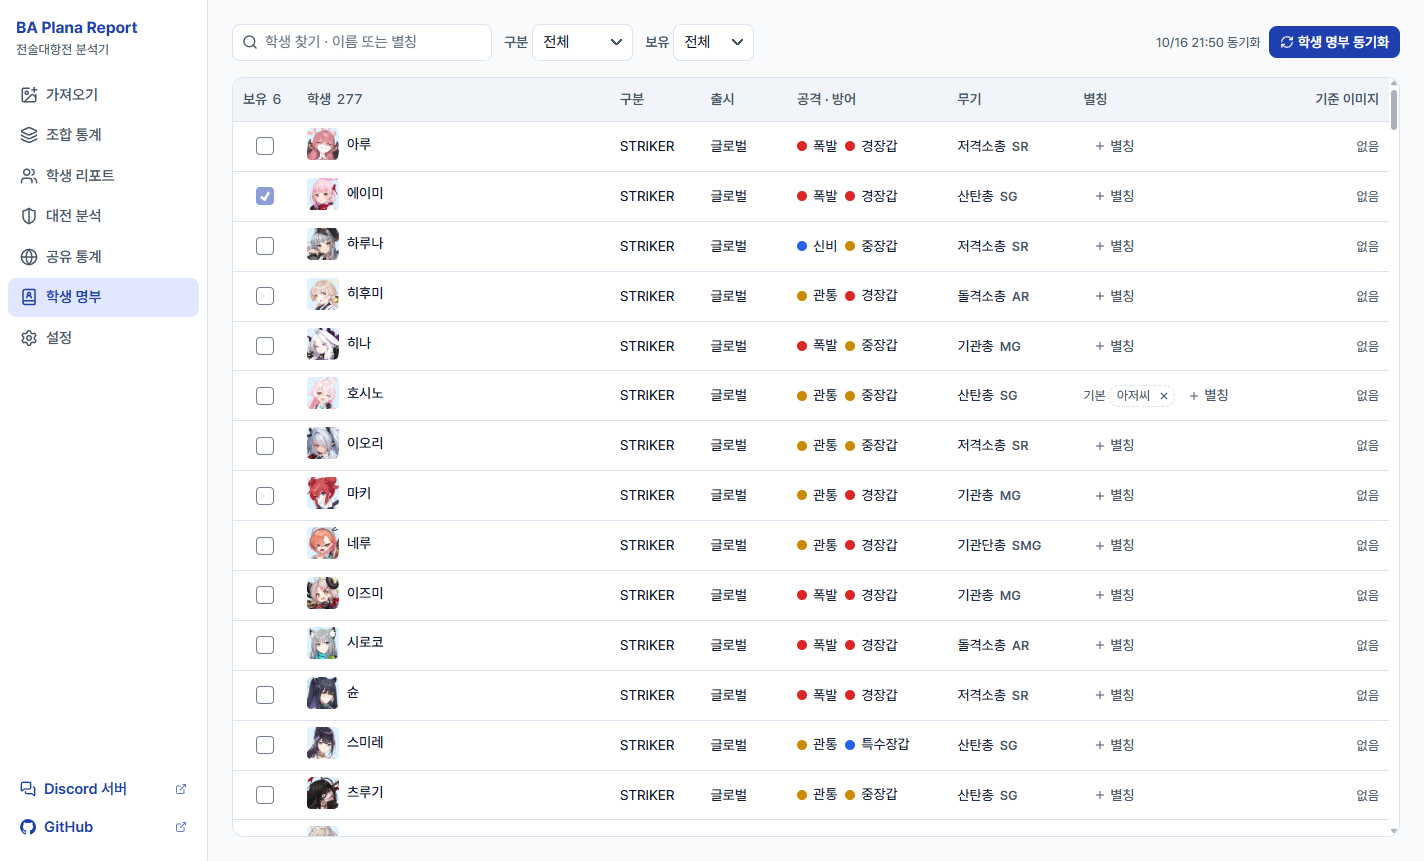
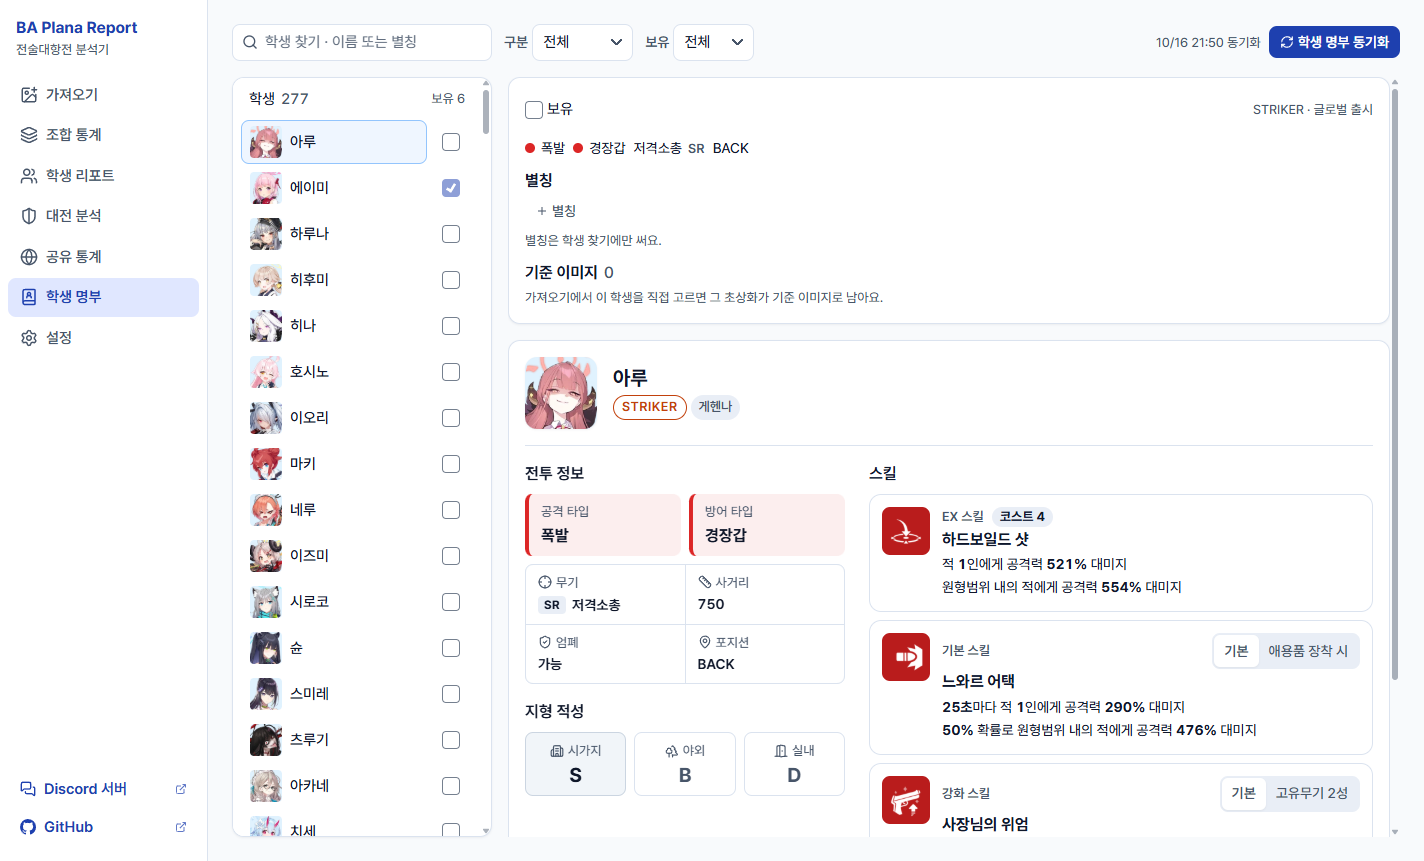
README: layouts per screen, new screenshots
Table/card views for compositions, three layouts for the student
report, the battle ledger and the two counter views, attack/defense
side by side in shared stats, the roster's per-student page and the
settings rows.

diff --git a/README.md b/README.md
@@ -50,6 +50,7 @@
   - STRIKER 4명은 배치 순서까지, SPECIAL 2명은 순서와 상관없이 같은 조합으로 묶어서 공격·방어·전체 승률과 판수를 보여 줍니다.
   - 한 전투에서 내 조합과 상대 조합이 각각 한 건씩 기록되므로, 상대가 쓴 조합의 승률도 쌓입니다.
   - 판수가 적은 조합은 "표본 부족"으로 표시하고, 숨길 수도 있습니다.
+  - **표**와 **카드** 두 가지로 볼 수 있습니다. 카드는 편성을 카드 폭만큼 크게 보여 줍니다(한 줄에 최대 4개). 고른 보기는 기억합니다.
 - **CSV로 내보내기**: 조합 통계·학생 리포트·공유 통계 표를 CSV 파일로 저장해 엑셀이나 구글 시트에서 열 수 있습니다. 화면에 보이는 필터·정렬 그대로 내보내며, 상대 이름·메모는 넣지 않습니다.
 - **전투 기록**: 저장한 전투는 대전 분석의 "상대·기록"에서 시간순 표로 다시 보고, 고치고, 다른 시즌으로 옮기거나 지울 수 있습니다([대전 분석](#대전-분석)).
 
@@ -63,7 +64,8 @@
   - **함께 나온 학생**: 같은 편으로 나온 횟수와 그때의 승률, 그 학생이 주로 선 자리
   - **들어간 편성**: 이 학생이 들어간 조합과 승률
   - **내 편으로 썼을 때 / 상대로 만났을 때**: 내 입장에서 본 승률
-- "공유 통계" 보기로 바꾸면 여러 사람이 공유한 기록으로 본 학생별 등장률·승률·배치 순서를 볼 수 있습니다([공유 통계](#공유-통계-웹-버전-선택)).
+- 배치는 **표**(모든 지표 + 상세), **카드**(학생을 크게), **학생별**(왼쪽 목록에서 고른 학생 한 명을 넓게) 중에서 고릅니다.
+- "공유 통계" 보기로 바꾸면 여러 사람이 공유한 기록으로 본 학생별 등장률·승률·배치 순서를 볼 수 있습니다([공유 통계](#공유-통계-웹-버전-선택)). 이때는 **표**, **등장 구간**(자주 나오는 학생부터 묶음), **공격·방어**(두 역할 순위를 나란히)로 볼 수 있습니다.
 
 ### 대전 분석
 
@@ -71,7 +73,7 @@
 
 내 기록만으로 기기 안에서 계산합니다.
 
-- **상대·기록**: 왼쪽은 상대 목록, 오른쪽은 이 시즌 전투 기록 표입니다(넓은 창에서는 나란히, 좁으면 위아래). 표에서 전투를 고치거나 지우고 원본 리포트를 볼 수 있고, 상대를 정하지 않은 전투는 상대 칸에서 이름으로 찾아 바로 연결합니다(새 이름을 적으면 새 상대). 공격 판에는 "이 방덱 카운터 찾기" 버튼이 있습니다.
+- **상대·기록**: 왼쪽은 상대 목록, 오른쪽은 이 시즌 전투 기록 표입니다(넓은 창에서는 나란히, 좁으면 위아래). 표에서 전투를 고치거나 지우고 원본 리포트를 볼 수 있고, 상대를 정하지 않은 전투는 상대 칸에서 이름으로 찾아 바로 연결합니다(새 이름을 적으면 새 상대). 공격 판에는 "이 방덱 카운터 찾기" 버튼이 있습니다. **전투 장부** 배치로 바꾸면 상대 목록 없이 전투 표를 전체 폭으로 보고, 위에서 상대를 골라 거릅니다.
 - **상대를 고르면** 그 상대와의 전투만 남기고 위에 요약을 붙입니다.
   - **내가 공격한 판(상대 방덱)**: 방덱이 바뀐 것으로 보인 횟수, 내 공격 승패, 이 상대에게 쓸 덱
   - **상대가 나를 공격한 판(상대 공덱)**: 상대가 쓴 공덱별 내 방어 승률. 상대는 공격할 상대(내 방덱)에 맞춰 공덱을 고르므로, 바뀐 횟수는 관측 사이의 차이로만 봅니다.
@@ -87,7 +89,7 @@
 ![대전 분석: 상대가 나를 공격한 판](docs/images/opponent-defense.png)
 
 - **이 상대에게 쓸 덱**: 내가 공격한 판에서 그 상대가 쓴 방덱(최근일수록 비중 크게)과 똑같은 방덱을 상대로 한 내 공격 기록으로 덱을 추천합니다. 방덱마다 판수가 적으면 낮게 잡고, 싸워 보지 않은 방덱은 0으로 쳐서 한쪽 방덱 기록만 많은 덱이 과하게 오르지 않게 합니다. 점수는 순서를 정하는 값이며 승률이 아니므로, 덱마다 검증한 방덱 수와 근거 판수를 함께 보여 줍니다. 이번 시즌 기록이 없으면 모든 시즌 기록을 참고합니다.
-- **카운터 찾기**: 고른 방덱과 싸운 내 공격덱을 같은 방덱 / 같은 학생·스트라이커 배치만 다름 / 비슷한 방덱(4~5명 같음, 참고용)으로 나눠 승률과 함께 보여 줍니다. 판수가 적은 100%보다 표본이 큰 높은 승률이 위에 오도록 정렬하고, **학생 명부에서 보유 학생을 체크하면** 지금 짤 수 있는 덱만 골라 볼 수 있습니다.
+- **카운터 찾기**: 고른 방덱과 싸운 내 공격덱을 같은 방덱 / 같은 학생·스트라이커 배치만 다름 / 비슷한 방덱(4~5명 같음, 참고용)으로 나눠 승률과 함께 보여 줍니다. 판수가 적은 100%보다 표본이 큰 높은 승률이 위에 오도록 정렬하고, **학생 명부에서 보유 학생을 체크하면** 지금 짤 수 있는 덱만 골라 볼 수 있습니다. 보기는 **목록과 함께**(만난 방덱 목록 옆에 결과)와 **결과 크게**(방덱을 고른 뒤 결과를 한 표에, 근거별로 거르기) 두 가지입니다.
 - **내 방덱을 뚫은 덱**: 내 방덱별 방어 승률과, 그 방덱을 만난 공격덱의 승률(만난 모든 판 기준)을 보여 줍니다.
 - 전투 시각은 스크린샷 파일 시각을 기본으로 쓰고, 가져오기 화면과 전투 기록에서 고칠 수 있습니다. 시각을 모르는 기록이 섞이면 순서와 변경 횟수를 "추정"이라고 표시합니다.
 - 상대 이름·메모는 이 기기에만 저장됩니다([개인정보 보호](#개인정보-보호)).
@@ -100,7 +102,7 @@
 
 - 학생을 누르면 프로필이 열립니다: 공격·방어 타입, 무기(예: 저격소총 SR), 사거리, 엄폐 가능 여부, 포지션, 학교, 지형 적성(시가지·야외·실내, S 이상은 강조). 형태가 여럿인 학생은 형태를 골라 볼 수 있습니다.
 - **스킬**: EX(코스트 포함)·기본·강화·서브 스킬을 게임 아이콘과 함께 최고 레벨 수치로 보여 주고, 설명 속 수치는 굵게 표시합니다. 애용품·고유무기로 강화된 효과는 카드 안에서 바꿔 볼 수 있습니다.
-- **학생 명부**에는 공격·방어 타입과 무기가 함께 나옵니다. 학생마다 별칭을 붙여 검색할 수 있고, **보유 학생**을 체크해 둘 수 있습니다("내 기록에서 찾기"로 내가 쓴 학생을 한 번에 확인). 보유 목록은 로그인하면 계정과 동기화됩니다.
+- **학생 명부**는 왼쪽 목록에서 학생을 고르면 오른쪽에 그 학생의 프로필·스킬과 보유·별칭·기준 이미지가 한 화면에 나옵니다. 학생마다 별칭을 붙여 검색할 수 있고, **보유 학생**을 체크해 둘 수 있습니다(내 기록에서 내 편으로 쓴 학생은 자동으로 보유). 보유 목록은 로그인하면 계정과 동기화됩니다.
 - **기본 별칭**: 운영자가 학생마다 자주 쓰는 별칭을 기본으로 정해 둡니다(점선 칩과 "기본" 표시). 고치면 그 목록이 내 별칭이 되고, "기본값으로"로 되돌릴 수 있습니다. 기본 별칭은 검색에만 쓰고 스크린샷 인식에는 쓰지 않습니다.
 
 ![학생 명부 화면](docs/images/roster.png)
@@ -114,7 +116,7 @@
 *위 두 화면은 기록을 여러 사람이 나눠 올린 것처럼 만든 예시 데이터입니다.*
 
 - 웹 버전에서 Discord로 로그인한 사람이 **시즌마다 직접 켜면**, 그 시즌 기록이 여러 사람의 기록과 합쳐집니다. 켜지 않으면 들어가지 않습니다.
-- 합친 결과는 로그인하지 않아도, 데스크톱 앱에서도 볼 수 있습니다: 역할(공격/방어)별 조합 승률, 학생별 등장률·승률·배치 순서.
+- 합친 결과는 로그인하지 않아도, 데스크톱 앱에서도 볼 수 있습니다: 역할(공격/방어)별 조합 승률(넓은 화면에서는 공격·방어를 나란히, 좁으면 토글로 하나씩), 학생별 등장률·승률·배치 순서.
 - 조작과 쏠림을 막는 규칙
   - 같은 스크린샷은 한 번만, 같은 경기를 양쪽이 각자 올린 것도 한 번만 셉니다(딜량을 모두 읽은 경우).
   - 한 사람이 같은 조합이나 학생을 많이 올려도 20판까지만 반영하고, 한 사람의 시즌 전체 반영량에도 상한이 있습니다.
@@ -124,7 +126,7 @@
 
 ### 다크 모드와 색상 톤
 
-- 설정의 **화면**에서 라이트·다크를 고르거나 Windows 설정을 따라가게 할 수 있습니다. 창 제목 표시줄도 같이 바뀝니다.
+- 설정의 **테마 · 색상 톤**에서 라이트·다크를 고르거나 Windows 설정을 따라가게 할 수 있습니다. 창 제목 표시줄도 같이 바뀝니다.
 - 색상 톤은 파랑·하늘·보라·분홍·청록·먹색 6가지입니다. 버튼·선택 표시·승률 막대 색이 바뀌고, 승패·공격/방어 표시 색은 어느 톤에서도 그대로입니다.
 - 모든 모드와 톤 조합에서 글자 대비가 4.5:1 이상이 되도록 맞췄습니다.
 
